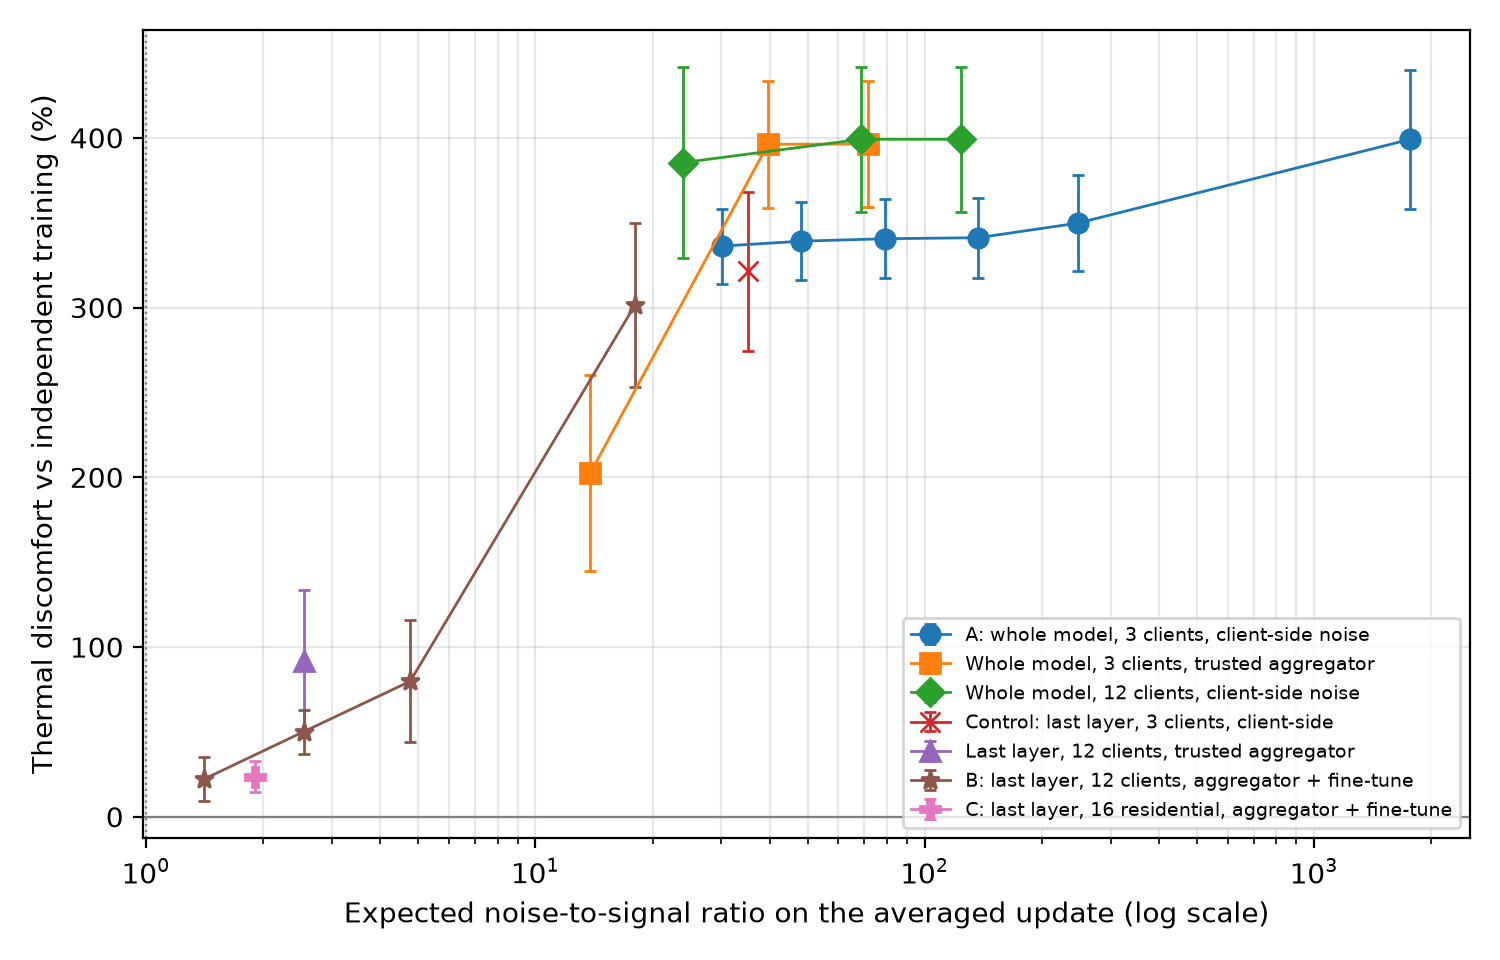
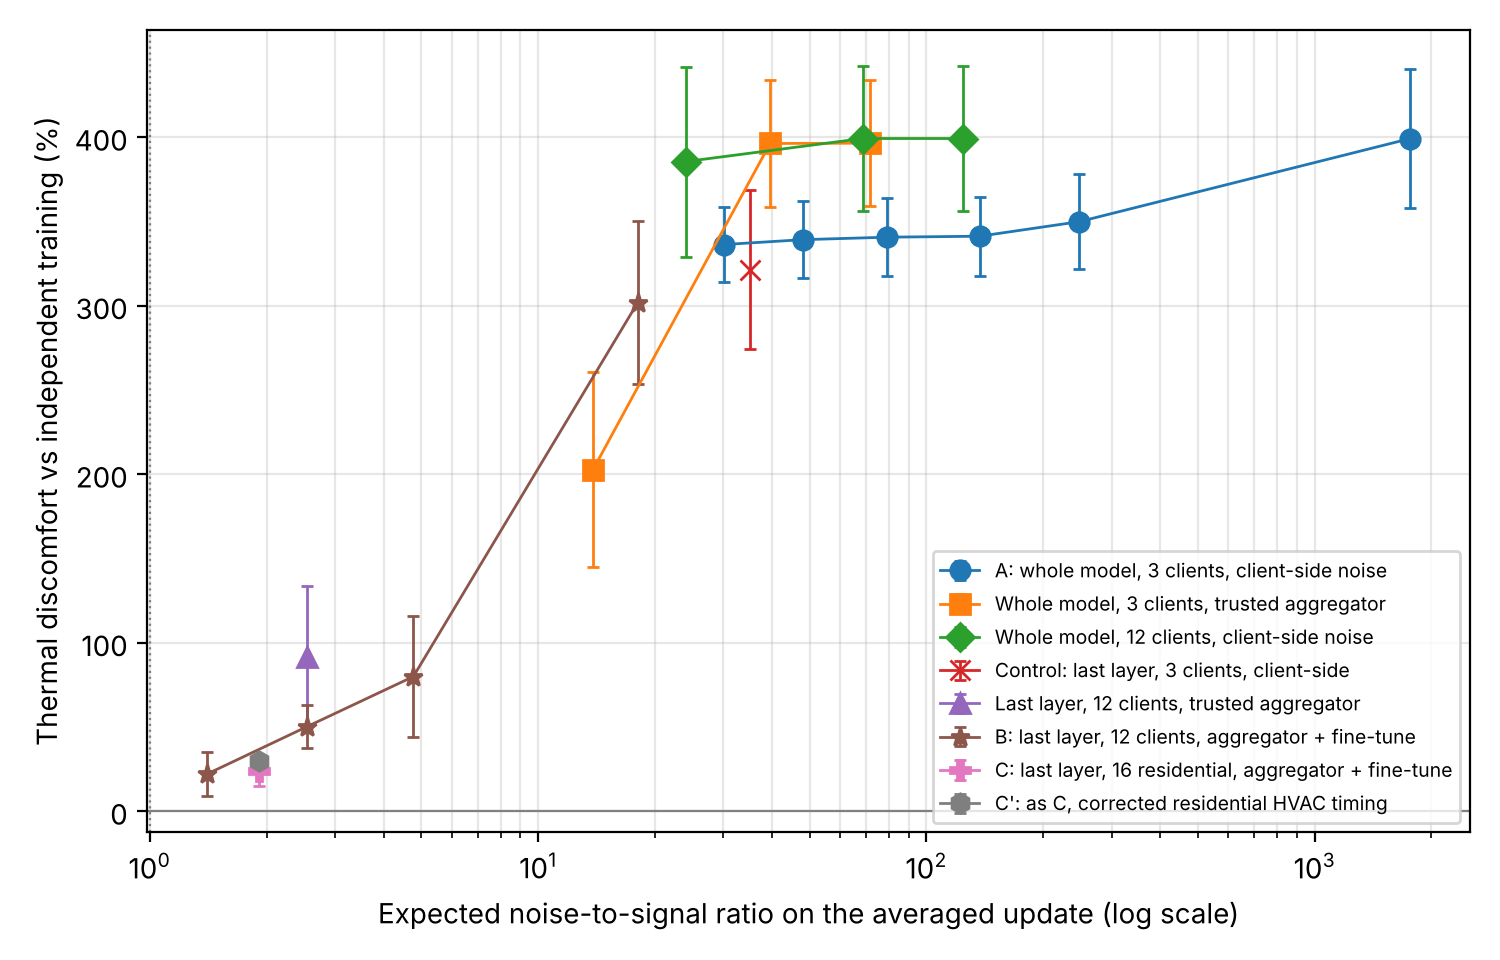
Add residential robustness check with corrected HVAC timing (C')

diff --git a/09c_build_residential_tzfix.py b/09c_build_residential_tzfix.py
@@ -1,0 +1,291 @@
+"""
+09b_build_residential_expansion.py
+=====================================
+STAGE B: builds additional residential archetype clients by combining:
+  - REAL base load (GC) and REAL solar generation (GG) from Ausgrid
+    (300 real Sydney homes, half-hourly, 2010-2013)
+  - a TEMPERATURE-CALIBRATED HVAC model: fit on Pecan Street's REAL
+    HVAC-vs-outdoor-temperature relationship (10 real Austin homes,
+    1-minute, Aug 2018), then applied to Sydney's REAL historical
+    weather for the Ausgrid period.
+
+TRANSPARENCY NOTE (please carry this into any thesis/paper write-up):
+  base_kw and pv_kw are REAL measurements. hvac_kw is NOT a direct
+  measurement of the same homes -- it is a physically-grounded estimate
+  (a standard degree-day-style temperature-response model, a common and
+  accepted building-energy-modelling technique) calibrated on real HVAC
+  data from a different real population and applied to real weather at
+  the target site. This should be reported as semi-synthetic / model-
+  derived, not as an independent real measurement, to preserve this
+  thesis's standard of transparency.
+
+Prerequisites:
+  - Ausgrid CSVs already downloaded by 09a into data/residential_expansion_raw/
+  - PecanStreet_10_Homes_1Min_Data.csv present in data/ (already confirmed)
+  - Internet access to Open-Meteo's free historical weather API (no key needed)
+
+Run:
+    python 09b_build_residential_expansion.py --n_customers 5
+"""
+import argparse
+import os
+import glob
+import json
+import urllib.request
+import urllib.parse
+
+import numpy as np
+import pandas as pd
+
+AUSGRID_DIR = "data/residential_expansion_raw"
+PECAN_PATH = "data/PecanStreet_10_Homes_1Min_Data.csv"
+OUT_DIR = "data/residential_expansion_tzfix"
+FINAL_DIR = "data/residential_scale_clients_tzfix"
+ORIGINAL_RESIDENTIAL = "data/residential_archetype_15min.csv"
+
+# Austin, TX (Pecan Street) and Sydney, AU (Ausgrid) coordinates
+AUSTIN_LAT, AUSTIN_LON = 30.27, -97.74
+SYDNEY_LAT, SYDNEY_LON = -33.87, 151.21
+
+OPEN_METEO_ARCHIVE = "https://archive-api.open-meteo.com/v1/archive"
+
+
+# ---------------------------------------------------------------------------
+# Step 1: real Ausgrid base load + solar generation
+# ---------------------------------------------------------------------------
+def load_ausgrid_customer(customer_id, n_years_files=None):
+    """Loads GC (general consumption) and GG (gross generation/solar) for one
+    customer across all available Ausgrid year-files, returns a combined
+    half-hourly DataFrame with columns [timestamp, base_kw, pv_kw]."""
+    files = n_years_files or sorted(glob.glob(os.path.join(AUSGRID_DIR, "Solar home *.csv")))
+    all_rows = []
+    for path in files:
+        df = pd.read_csv(path, skiprows=1, low_memory=False)
+        df = df[df["Customer"] == customer_id]
+        if df.empty:
+            continue
+        time_cols = [c for c in df.columns if ":" in str(c)]
+        for cat, out_col in [("GC", "base_kw"), ("GG", "pv_kw")]:
+            sub = df[df["Consumption Category"] == cat]
+            if sub.empty:
+                continue
+            melted = sub.melt(id_vars=["date"], value_vars=time_cols,
+                               var_name="time", value_name=out_col)
+            melted["timestamp"] = pd.to_datetime(
+                melted["date"] + " " + melted["time"], dayfirst=True, errors="coerce")
+            melted = melted.dropna(subset=["timestamp"])[["timestamp", out_col]]
+            all_rows.append((out_col, melted))
+
+    base = None
+    for out_col, melted in all_rows:
+        melted = melted.groupby("timestamp", as_index=False).mean()
+        if base is None:
+            base = melted if out_col == "base_kw" else melted.rename(columns={out_col: out_col})
+        base = base.merge(melted, on="timestamp", how="outer") if out_col not in (base.columns if base is not None else []) else base
+
+    # Simpler, robust merge: build separately then join
+    gc_frames = [m for c, m in all_rows if c == "base_kw"]
+    gg_frames = [m for c, m in all_rows if c == "pv_kw"]
+    if not gc_frames:
+        return None
+    gc = pd.concat(gc_frames).groupby("timestamp", as_index=False).mean()
+    if gg_frames:
+        gg = pd.concat(gg_frames).groupby("timestamp", as_index=False).mean()
+        merged = gc.merge(gg, on="timestamp", how="left")
+    else:
+        merged = gc
+        merged["pv_kw"] = 0.0
+    merged["pv_kw"] = merged["pv_kw"].fillna(0.0)
+    return merged.sort_values("timestamp").reset_index(drop=True)
+
+
+def find_customers_with_solar(sample_file, min_customers=10):
+    """Ausgrid customer IDs are 1..300; scan the first year-file to find
+    which ones have BOTH GC and GG (not all 300 have solar)."""
+    df = pd.read_csv(sample_file, skiprows=1, usecols=["Customer", "Consumption Category"], low_memory=False)
+    has_gc = set(df.loc[df["Consumption Category"] == "GC", "Customer"].unique())
+    has_gg = set(df.loc[df["Consumption Category"] == "GG", "Customer"].unique())
+    both = sorted(has_gc & has_gg)
+    print(f"Found {len(both)} customers with both GC and GG in {sample_file}")
+    return both[:min_customers]
+
+
+# ---------------------------------------------------------------------------
+# Step 2: fetch weather (Open-Meteo, free, no API key)
+# ---------------------------------------------------------------------------
+def fetch_weather(lat, lon, start_date, end_date, cache_path, tz="auto"):
+    if os.path.exists(cache_path):
+        return pd.read_csv(cache_path, parse_dates=["timestamp"])
+
+    params = {
+        "latitude": lat, "longitude": lon,
+        "start_date": start_date, "end_date": end_date,
+        "hourly": "temperature_2m", "timezone": tz,
+    }
+    url = OPEN_METEO_ARCHIVE + "?" + urllib.parse.urlencode(params)
+    print(f"Fetching weather: {url}")
+    with urllib.request.urlopen(url) as resp:
+        data = json.loads(resp.read())
+
+    df = pd.DataFrame({
+        "timestamp": pd.to_datetime(data["hourly"]["time"]),
+        "t_out_c": data["hourly"]["temperature_2m"],
+    })
+    os.makedirs(os.path.dirname(cache_path), exist_ok=True)
+    df.to_csv(cache_path, index=False)
+    return df
+
+
+# ---------------------------------------------------------------------------
+# Step 3: calibrate HVAC-vs-temperature model on REAL Pecan Street data
+# ---------------------------------------------------------------------------
+def calibrate_hvac_model():
+    print("Loading Pecan Street real HVAC data...")
+    df = pd.read_csv(PECAN_PATH)
+    df = df[df["Measure"] == "Real Power"]
+    df["Datetime (UTC)"] = pd.to_datetime(df["Datetime (UTC)"])
+
+    hvac = df[df["Circuit"].isin(["HVAC Condenser", "HVAC Fan"])]
+    # Sum Condenser+Fan per home per MINUTE (keep minute resolution -- do not
+    # collapse to hourly here). Using raw minute-level data gives ~43,000
+    # data points (10 homes x 3 days x 1440 min) instead of 73-730, and lets
+    # us fit a diurnal (hour-of-day) pattern in addition to the temperature
+    # response, since 3 days of already-hot Austin summer weather has very
+    # little day-to-day temperature VARIANCE to explain HVAC use from
+    # temperature alone (confirmed: R^2=0.001 regardless of aggregation
+    # level when temperature is the only predictor -- this is a genuine
+    # data limitation, not a bug, since outdoor temp barely changes across
+    # these 3 hot days while AC cycles on a daily occupancy/thermostat
+    # schedule that correlates much more with time-of-day).
+    per_minute = hvac.groupby([hvac["Home ID"], "Datetime (UTC)"])["Value"].sum()
+    per_minute = per_minute.reset_index()
+    per_minute.columns = ["home_id", "timestamp", "hvac_kw"]
+
+    # TZ FIX: Pecan Street timestamps are UTC, so the Austin weather is requested in UTC (GMT)
+    # and both series are aligned in UTC before merging.
+    weather = fetch_weather(AUSTIN_LAT, AUSTIN_LON, "2018-08-23", "2018-08-26",
+                             os.path.join(OUT_DIR, "austin_weather_cache_utc.csv"), tz="GMT")
+    weather["timestamp"] = weather["timestamp"].dt.tz_localize("UTC") if weather["timestamp"].dt.tz is None else weather["timestamp"]
+    per_minute["timestamp"] = per_minute["timestamp"].dt.tz_localize(None).dt.tz_localize("UTC") \
+        if per_minute["timestamp"].dt.tz is None else per_minute["timestamp"]
+
+    merged = pd.merge_asof(per_minute.sort_values("timestamp"),
+                            weather.sort_values("timestamp"),
+                            on="timestamp", direction="nearest", tolerance=pd.Timedelta("1h"))
+    merged = merged.dropna()
+    print(f"  Regression dataset: {len(merged)} (home, minute) data points "
+          f"across {merged['home_id'].nunique()} homes.")
+
+    # Multi-variate model: HVAC_kW = a*cooling_degree + b*sin(hour) + d*cos(hour) + c
+    # The sin/cos pair captures the diurnal (time-of-day) usage cycle, which
+    # is expected to matter more than temperature alone over just 3 days.
+    T_base = 21.0
+    merged["cooling_degree"] = np.clip(merged["t_out_c"] - T_base, 0, None)
+    # TZ FIX: the diurnal terms use Austin LOCAL clock time, because the model is later applied
+    # to Sydney data indexed in Sydney local time. Using UTC hours here shifted the modelled
+    # HVAC peak by about five hours (to near midnight local time).
+    local = merged["timestamp"].dt.tz_convert("America/Chicago")
+    hour_frac = local.dt.hour + local.dt.minute / 60.0
+    merged["hour_sin"] = np.sin(2 * np.pi * hour_frac / 24)
+    merged["hour_cos"] = np.cos(2 * np.pi * hour_frac / 24)
+
+    A = np.vstack([merged["cooling_degree"], merged["hour_sin"], merged["hour_cos"],
+                   np.ones(len(merged))]).T
+    coef, resid, rank, sv = np.linalg.lstsq(A, merged["hvac_kw"], rcond=None)
+    a, b, d, c = coef
+    pred = a * merged["cooling_degree"] + b * merged["hour_sin"] + d * merged["hour_cos"] + c
+    r2 = 1 - np.sum((merged["hvac_kw"] - pred)**2) / np.sum((merged["hvac_kw"] - merged["hvac_kw"].mean())**2)
+
+    print(f"Calibrated model: HVAC_kW = {a:.4f}*max(0,T_out-{T_base}) + {b:.4f}*sin(hour) "
+          f"+ {d:.4f}*cos(hour) + {c:.4f}   (R^2={r2:.3f}, N={len(merged)})")
+    return {"a": float(a), "b": float(b), "d": float(d), "c": float(c),
+            "T_base": T_base, "r2": float(r2), "n": len(merged)}
+
+
+def apply_hvac_model(model, weather_df):
+    cooling_degree = np.clip(weather_df["t_out_c"] - model["T_base"], 0, None)
+    hour_frac = weather_df["timestamp"].dt.hour + weather_df["timestamp"].dt.minute / 60.0
+    hour_sin = np.sin(2 * np.pi * hour_frac / 24)
+    hour_cos = np.cos(2 * np.pi * hour_frac / 24)
+    hvac_kw = model["a"] * cooling_degree + model["b"] * hour_sin + model["d"] * hour_cos + model["c"]
+    return np.clip(hvac_kw, 0, None)  # HVAC power can't be negative
+
+
+# ---------------------------------------------------------------------------
+# Main pipeline
+# ---------------------------------------------------------------------------
+def finalize_tzfix():
+    """Writes the 16 residential clients (client 0 = HomeC, clients 1-15 = corrected Ausgrid files)
+    in the format read by exp_dp.py --clients res16 --res_dir data/residential_scale_clients_tzfix."""
+    import re as _re
+    def price_for_hour(hour):
+        if hour in (17, 18, 19, 20): return 0.42
+        if hour in (7, 8, 9, 10, 11, 12, 13, 14, 15, 16, 21, 22): return 0.22
+        return 0.11
+    os.makedirs(FINAL_DIR, exist_ok=True)
+    pd.read_csv(ORIGINAL_RESIDENTIAL, index_col=0).to_csv(os.path.join(FINAL_DIR, "residential_client0_15min.csv"))
+    # same ordering as 10_residential_scale_federation.py, so client i is the same customer as before
+    raw = sorted(glob.glob(os.path.join(OUT_DIR, "residential_ausgrid_customer*_15min.csv")))
+    for i, path in enumerate(raw, start=1):
+        df = pd.read_csv(path, parse_dates=["timestamp"])
+        df["price"] = df["timestamp"].dt.hour.map(price_for_hour)
+        df.set_index("timestamp")[["hvac_kw", "base_kw", "pv_kw", "t_out_c", "price"]].to_csv(
+            os.path.join(FINAL_DIR, f"residential_client{i}_15min.csv"))
+    print(f"Finalised {len(raw) + 1} residential clients in {FINAL_DIR}/")
+
+
+def main():
+    parser = argparse.ArgumentParser()
+    parser.add_argument("--n_customers", type=int, default=15)
+    args = parser.parse_args()
+    os.makedirs(OUT_DIR, exist_ok=True)
+
+    print("=" * 70 + "\nSTEP 1: Calibrating HVAC model on real Pecan Street data\n" + "=" * 70)
+    hvac_model = calibrate_hvac_model()
+    with open(os.path.join(OUT_DIR, "hvac_model.json"), "w") as f:
+        json.dump(hvac_model, f, indent=2)
+
+    print("\n" + "=" * 70 + "\nSTEP 2: Fetching real Sydney weather (2010-2013)\n" + "=" * 70)
+    sydney_weather = fetch_weather(SYDNEY_LAT, SYDNEY_LON, "2010-07-01", "2013-06-30",
+                                    os.path.join(OUT_DIR, "sydney_weather_cache.csv"))
+    print(f"  {len(sydney_weather)} hourly readings fetched/cached.")
+
+    print("\n" + "=" * 70 + "\nSTEP 3: Loading real Ausgrid customers (base load + solar)\n" + "=" * 70)
+    sample_file = sorted(glob.glob(os.path.join(AUSGRID_DIR, "Solar home *.csv")))[0]
+    customer_ids = find_customers_with_solar(sample_file, args.n_customers)
+
+    for cid in customer_ids:
+        print(f"\n--- Customer {cid} ---")
+        ausgrid_data = load_ausgrid_customer(cid)
+        if ausgrid_data is None or len(ausgrid_data) < 100:
+            print("  Insufficient data, skipping.")
+            continue
+
+        # Merge with weather (nearest hour) to compute modelled HVAC
+        ausgrid_data = ausgrid_data.sort_values("timestamp")
+        sw = sydney_weather.copy()
+        sw["timestamp"] = sw["timestamp"].dt.tz_localize(None)
+        ausgrid_data["timestamp"] = pd.to_datetime(ausgrid_data["timestamp"])
+        merged = pd.merge_asof(ausgrid_data, sw, on="timestamp", direction="nearest", tolerance=pd.Timedelta("1h"))
+        merged["hvac_kw"] = apply_hvac_model(hvac_model, merged)
+        merged["hour_frac"] = merged["timestamp"].dt.hour / 24.0 + merged["timestamp"].dt.minute / 1440.0
+
+        # Resample 30-min -> 15-min via linear interpolation, matching existing archetype format
+        merged = merged.set_index("timestamp").resample("15min").interpolate(method="linear").reset_index()
+
+        out_path = os.path.join(OUT_DIR, f"residential_ausgrid_customer{cid}_15min.csv")
+        merged[["timestamp", "base_kw", "pv_kw", "hvac_kw", "t_out_c"]].to_csv(out_path, index=False)
+        print(f"  Saved: {out_path} ({len(merged)} rows, "
+              f"base_kw mean={merged['base_kw'].mean():.3f}, "
+              f"pv_kw mean={merged['pv_kw'].mean():.3f}, "
+              f"hvac_kw mean={merged['hvac_kw'].mean():.3f})")
+
+    finalize_tzfix()
+    print(f"\nDone. Files saved in {OUT_DIR}/ and {FINAL_DIR}/.")
+    print("Next step: adapt data_loader.py's remaining logic (price signal, state "
+          "normalisation) to these new files, then add them as additional residential "
+          "clients in 01_full_ablation_b1_b4.py / main_real_federation.py.")
+
+
+if __name__ == "__main__":
+    main()

diff --git a/exp_dp.py b/exp_dp.py
@@ -38,10 +38,13 @@ OUT = "results/fed_dp"
 ALPHAS = [1 + x / 10.0 for x in range(1, 100)] + list(range(12, 64)) + [128, 256, 512]
 
 
+RES_DIR = os.path.join("data", "residential_scale_clients")
+
+
 def residential_clients(n=16):
-    """The real residential clients of Appendix C.15 (data/residential_scale_clients)."""
+    """The real residential clients of Appendix C.15 (data/residential_scale_clients, or --res_dir)."""
     import re as _re
-    fs = glob.glob(os.path.join("data", "residential_scale_clients", "residential_client*_15min.csv"))
+    fs = glob.glob(os.path.join(RES_DIR, "residential_client*_15min.csv"))
     fs = sorted(fs, key=lambda x: int(_re.search(r"client(\d+)_", x).group(1)))[:n]
     if len(fs) < n: raise SystemExit("Found %d residential client files, need %d (run 10_residential_scale_federation.py first)." % (len(fs), n))
     return [{"arch": "residential", "id": "client%d" % i, "path": f_} for i, f_ in enumerate(fs)]
@@ -218,10 +221,14 @@ def main():
     ap.add_argument("--dp_mode", default="client", choices=["client", "server"])
     ap.add_argument("--no_fedclip", action="store_true")
     ap.add_argument("--clients", default="multi", choices=["multi", "res16"], help="12-building corrective set, or the 16 real residential clients of C.15")
+    ap.add_argument("--res_dir", default="", help="folder of the residential clients for --clients res16 (e.g. data/residential_scale_clients_tzfix)")
     ap.add_argument("--share", default="all", choices=["all", "head"], help="federate the whole network or only the final layer of actor and critic")
     ap.add_argument("--finetune", type=int, default=0, help="local fine-tuning steps after the last round (no release)")
     ap.add_argument("--group", default="arch", choices=["arch", "all"], help="federate within each archetype (3 clients) or across all 12 buildings")
     a = ap.parse_args(); sens = 2.0 if a.dp_mode == "client" else 1.0
+    if a.res_dir:                                   # corrected residential data -> separate results folder
+        global RES_DIR; RES_DIR = a.res_dir
+        if a.clients == "res16": a.clients = "res16tz"
     if a.mode == "sigma":
         for e in a.eps:
             z = calibrate_z(e, a.rounds, a.delta, sens)

diff --git a/dp_summary.py b/dp_summary.py
@@ -23,6 +23,7 @@ CONFIGS = [  # folder, label, d, clients per federation, marker
     ("results/fed_dp_all_server_head/frac0.2",         "Last layer, 12 clients, trusted aggregator",   D_HEAD, 12, "^"),
     ("results/fed_dp_all_server_head_ft400/frac0.2",   "B: last layer, 12 clients, aggregator + fine-tune", D_HEAD, 12, "*"),
     ("results/fed_dp_res16_server_head_ft400/frac0.2", "C: last layer, 16 residential, aggregator + fine-tune", D_HEAD, 16, "P"),
+    ("results/fed_dp_res16tz_server_head_ft400/frac0.2", "C': as C, corrected residential HVAC timing", D_HEAD, 16, "h"),
 ]
 
 

diff --git a/RESULTS_DP.md b/RESULTS_DP.md
@@ -91,6 +91,19 @@ Results in `results/fed_dp_res16_server_head_ft400/frac0.2` (the 16 residential 
 
 Equivalence of the noise effect: cost [−3.05%, +0.51%], discomfort [−1.6%, +12.2%]. The discomfort penalty of the large homogeneous federation is about half that of the mixed-type federation in Experiment B, and the noise effect is bounded to at most about 12%. Clients 1–15 use a modelled HVAC load.
 
+## Robustness check C′ — Experiment C on corrected residential HVAC timing
+
+The modelled HVAC series of the 15 Ausgrid clients was fitted on UTC clock hours and applied in Sydney local time, so its peak fell near midnight. `09c_build_residential_tzfix.py` refits the time-of-day terms on Austin local time (peak near 19:00; R² = 0.176; mean 1.25 kW). Results in `results/fed_dp_res16tz_server_head_ft400/frac0.2` (8 seeds; `exp_dp.py --clients res16 --res_dir data/residential_scale_clients_tzfix`).
+
+| Comparison at ε = 8 | Cost | p | Discomfort | p |
+| --- | --- | --- | --- | --- |
+| vs independent training | −3.66% | 0.023 | +29.6% | 0.0078 |
+| No-noise configuration vs independent training | −3.94% | 0.016 | +27.1% | 0.0078 |
+| vs no-noise configuration (noise effect) | +0.36% | 0.74 | +2.9% | 0.64 |
+| vs B1 | +11.55% | 0.0078 | +17.6% | 0.0078 |
+
+Equivalence of the noise effect: cost [−1.85%, +2.58%], discomfort [−4.9%, +10.6%]. The bound on the privacy noise survives the correction; the penalty against independent training comes from sharing the final layer, not from the noise.
+
 ## Summary figure
 
 `results/dp_nsr_figure.png` (produced by `dp_summary.py`) plots discomfort against the expected noise-to-signal ratio for every configuration and ε: the penalty is small near a ratio of one and saturates at about +340% to +400% above a ratio of about 20.
@@ -113,6 +126,8 @@ python exp_dp.py --mode train --share head --n_seeds 4 --eps 8
 python exp_dp.py --mode train --clients res16 --share head --dp_mode server --finetune 400 --n_seeds 8 --eps 8
 python exp_dp.py --mode analyze [same --clients/--share/--dp_mode/--group/--finetune options]
 python dp_summary.py --folder results/fed_dp_all_server_head_ft400/frac0.2
+python 09c_build_residential_tzfix.py
+python exp_dp.py --mode train --clients res16 --res_dir data/residential_scale_clients_tzfix --share head --dp_mode server --finetune 400 --n_seeds 8 --eps 8
 ```
 
 `exp_multi.py` now ends with `if __name__ == "__main__": main()`, so it can be imported without starting a run.
